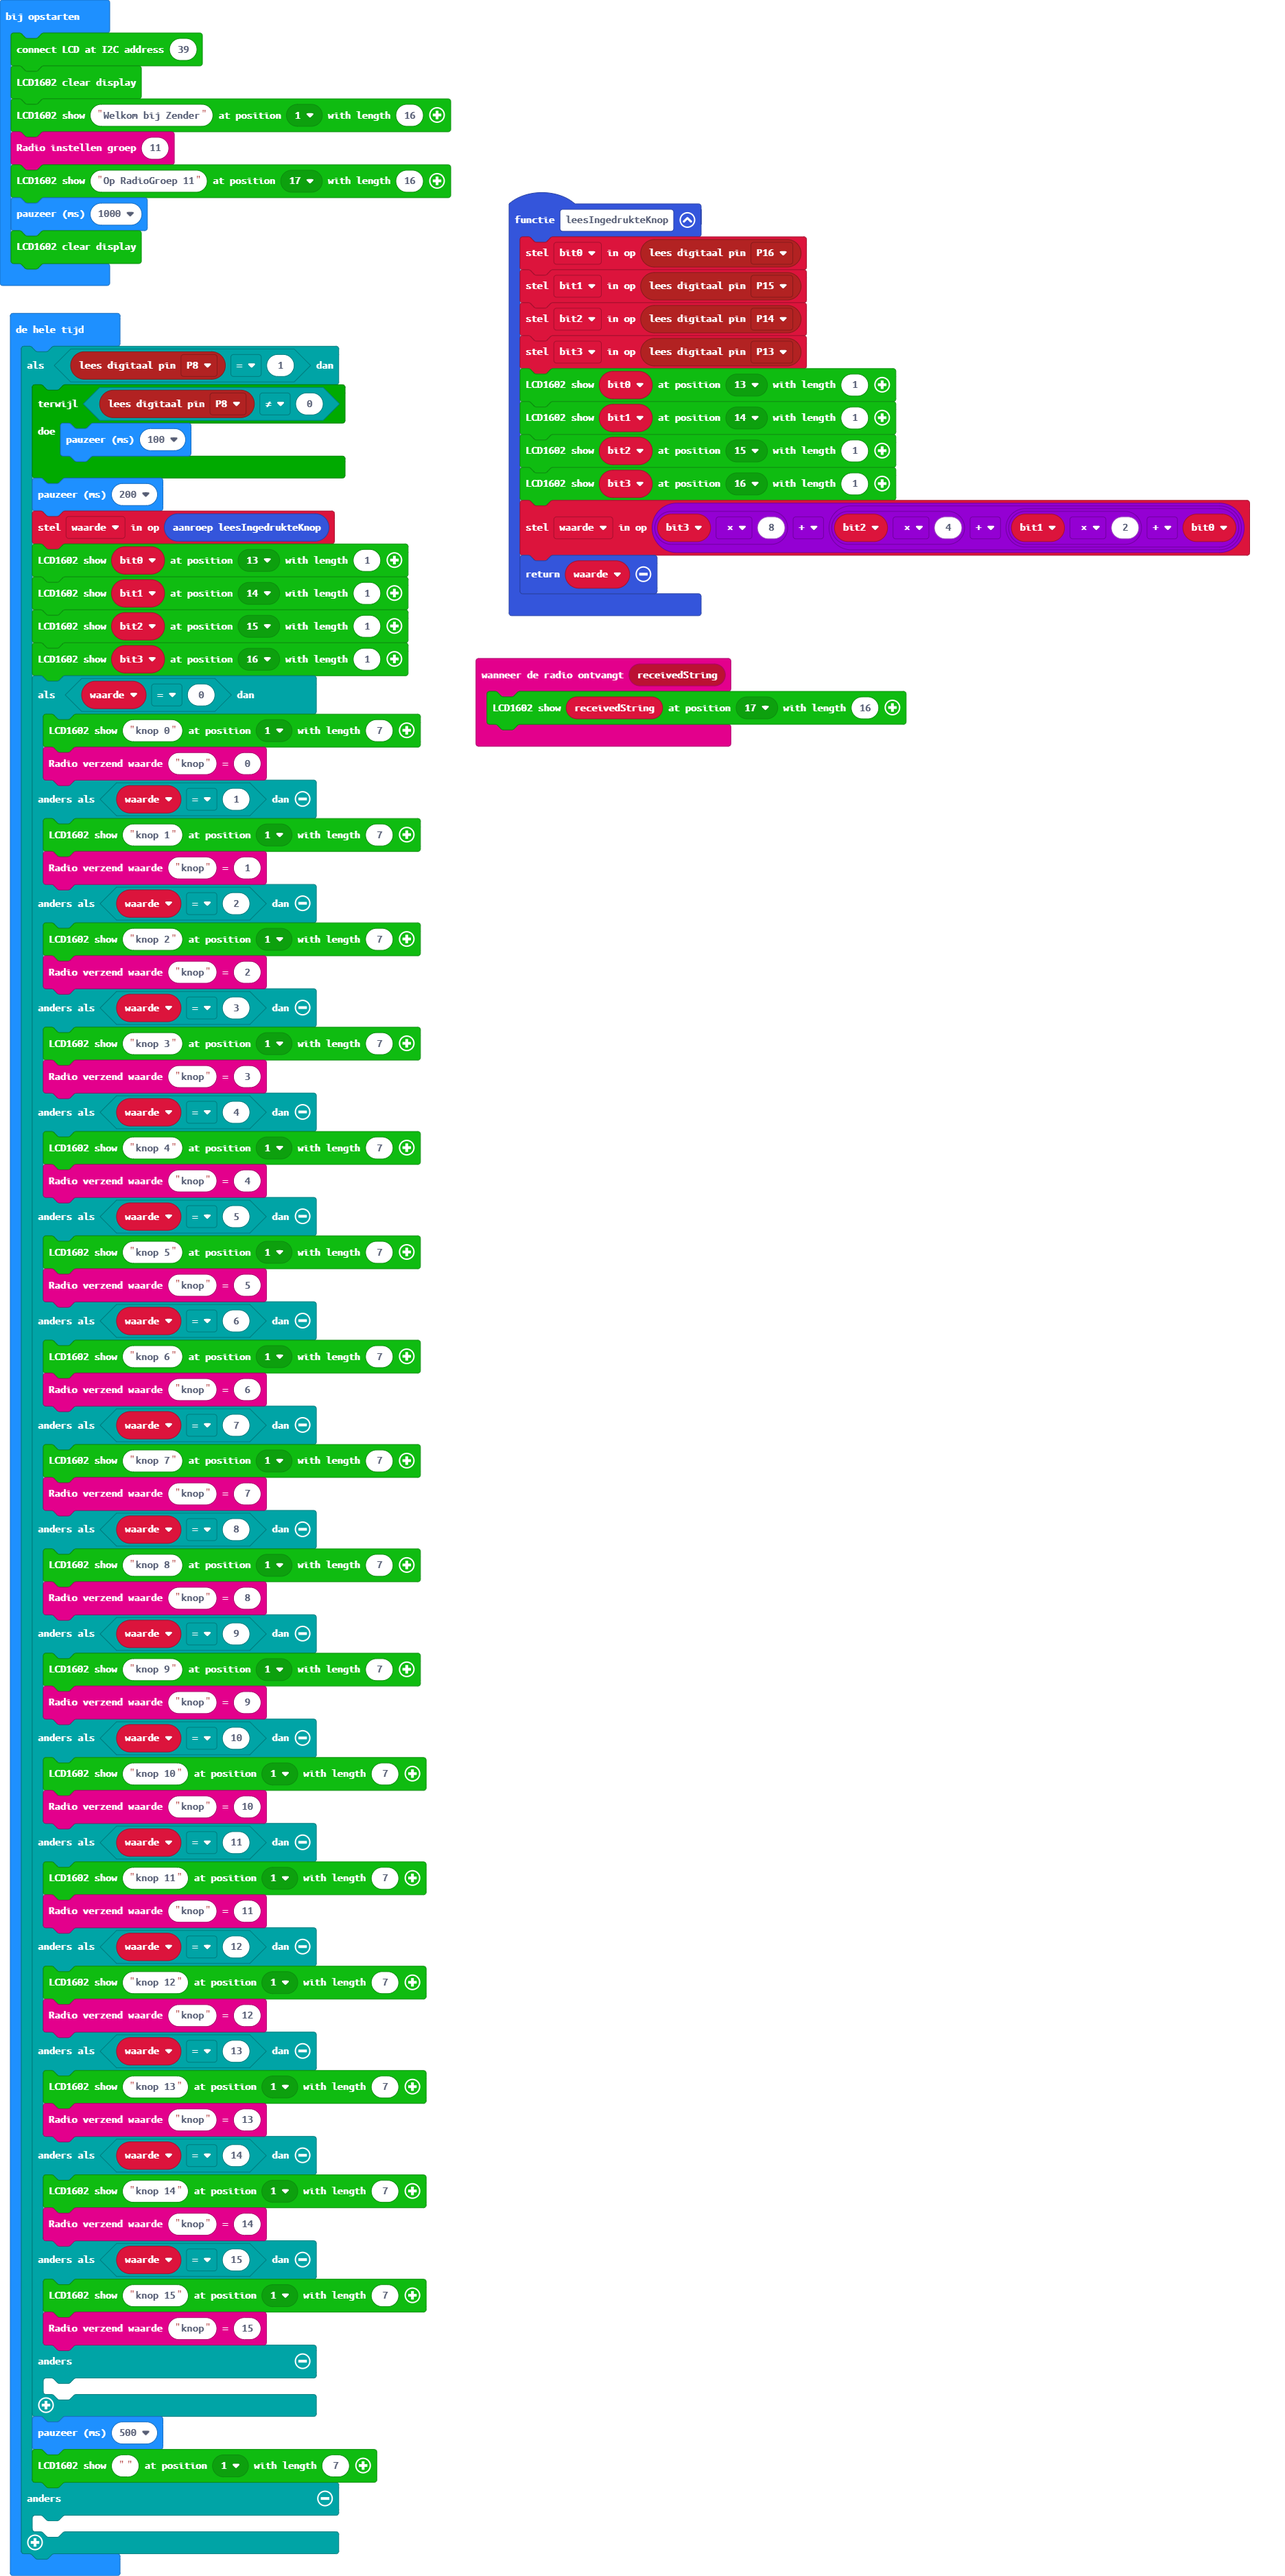
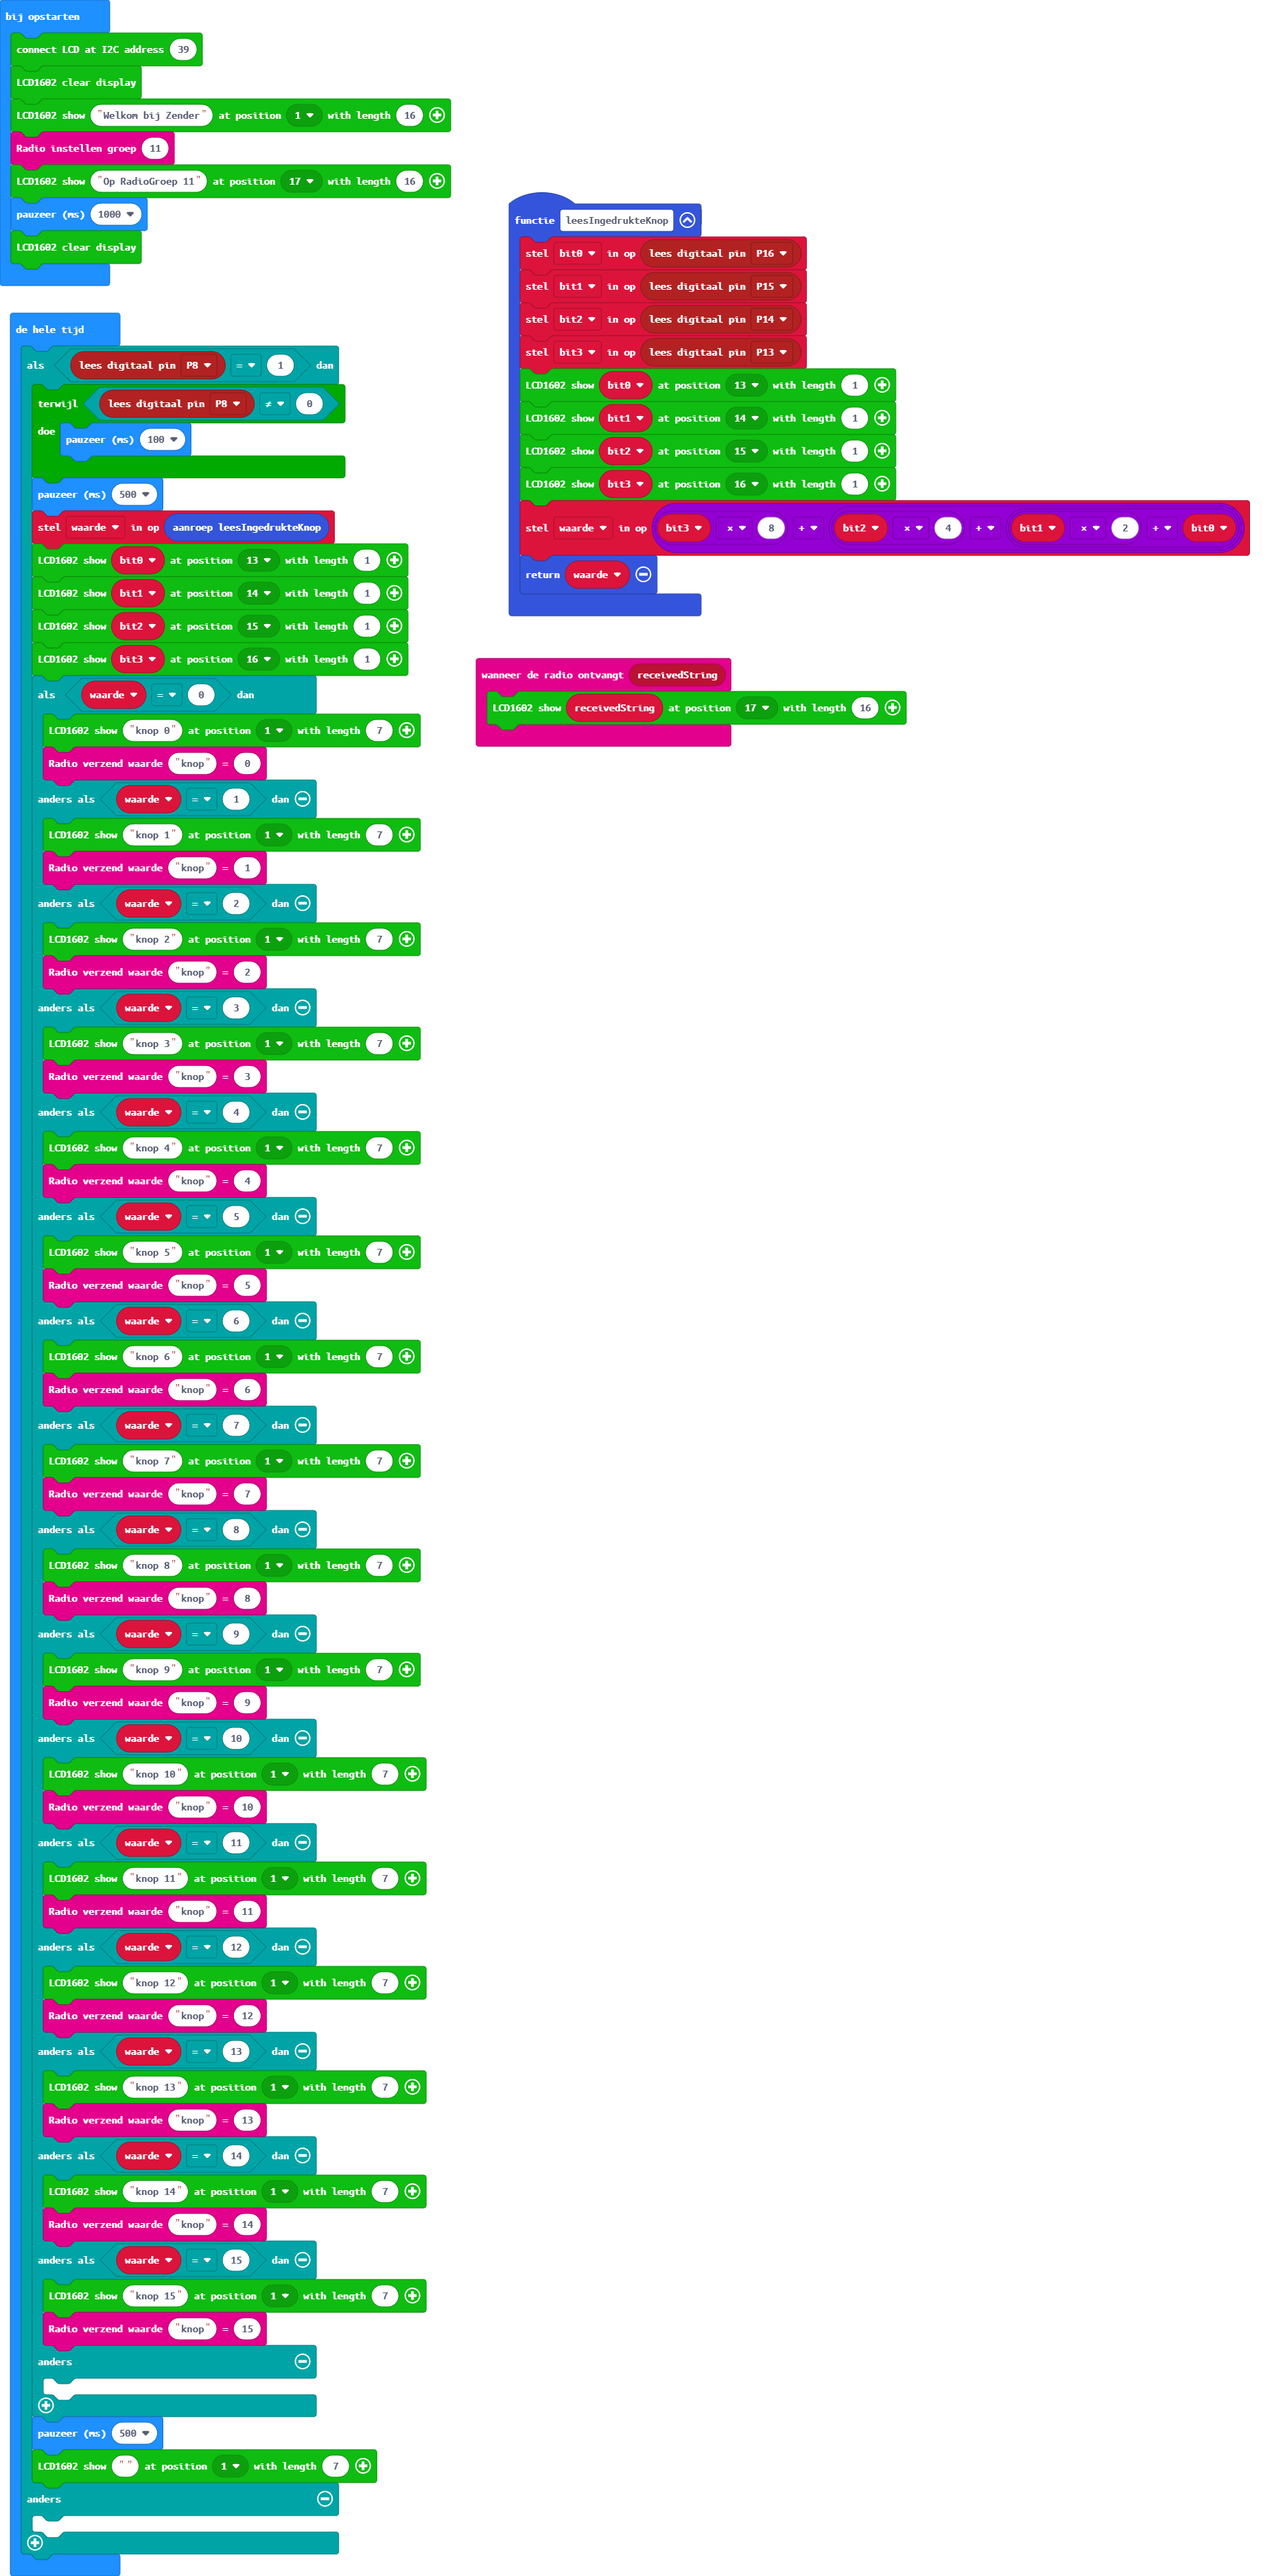
Update main.blocks, main.ts

diff --git a/main.ts b/main.ts
@@ -30,7 +30,7 @@ basic.forever(function () {
         while (pins.digitalReadPin(DigitalPin.P8) != 0) {
             basic.pause(100)
         }
-        basic.pause(200)
+        basic.pause(500)
         waarde = leesIngedrukteKnop()
         makerbit.showStringOnLcd1602("" + (bit0), makerbit.position1602(LcdPosition1602.Pos13), 1)
         makerbit.showStringOnLcd1602("" + (bit1), makerbit.position1602(LcdPosition1602.Pos14), 1)
